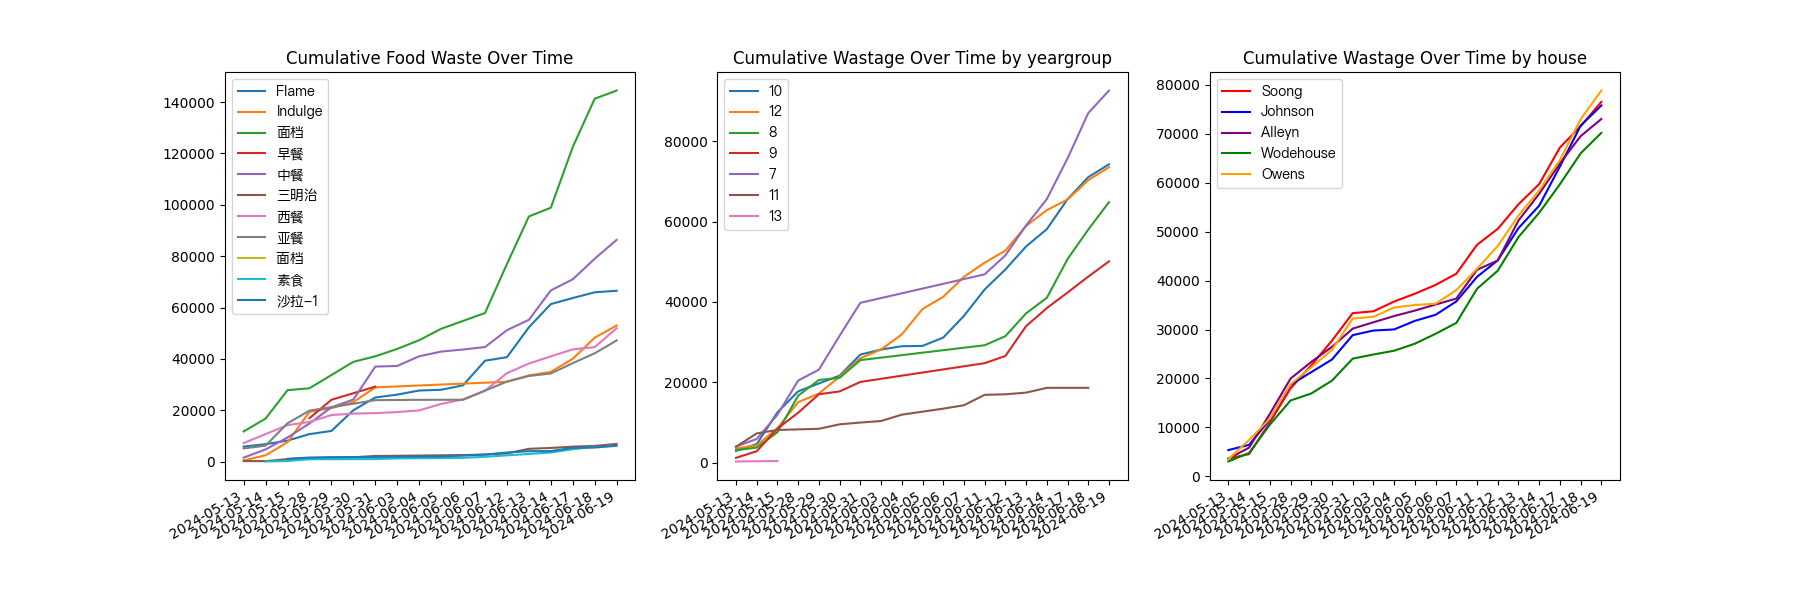
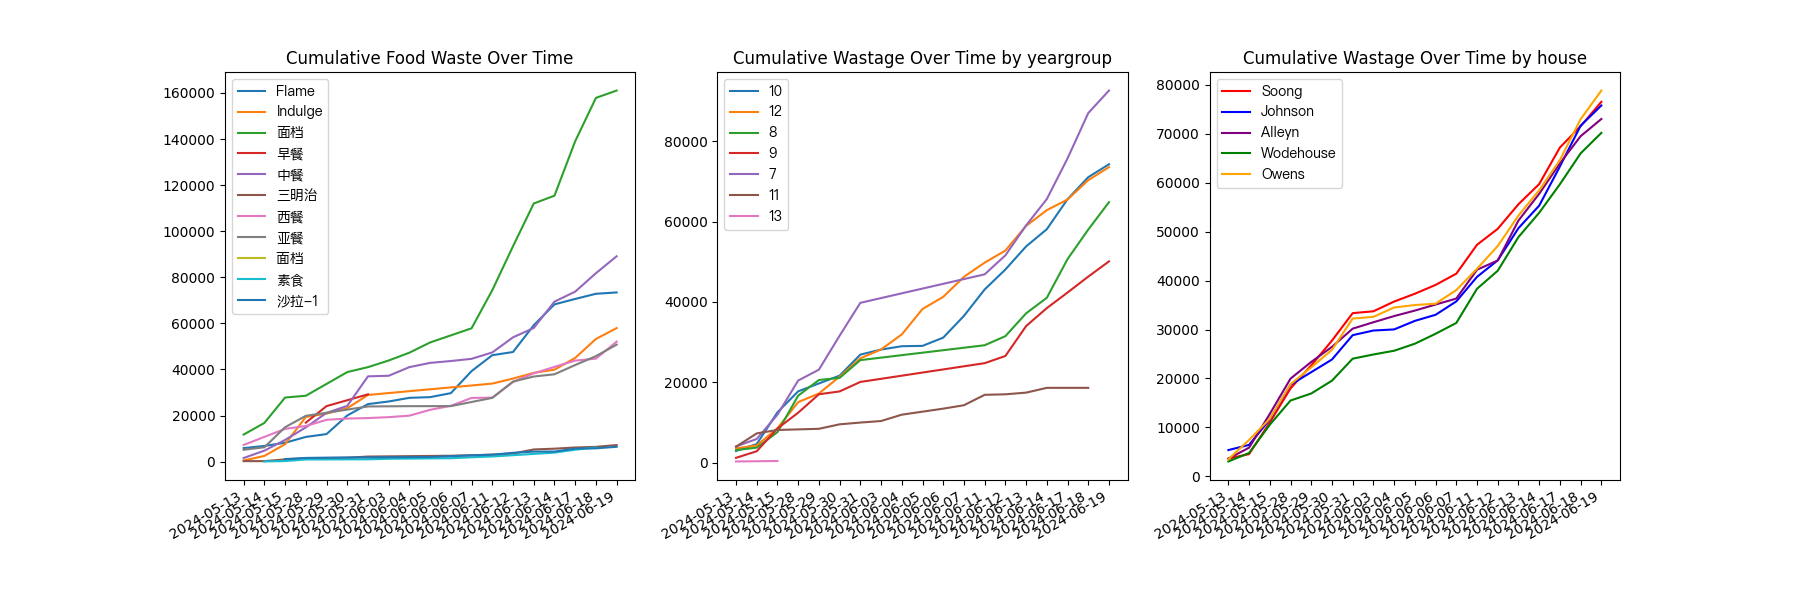
june 11 data added

diff --git a/main.py b/main.py
@@ -515,10 +515,10 @@ def rank_counters(average_wastage, total_wastage, counter_days):
     for counter, days in counter_days_ranked:
         print(f"{counter}: {days} buys")
 
-def main(startDate, endDate, continuous, filename):
+def main(startDate, endDate):
     #current_date = getDate()
-    #report(startDate, endDate) # Start date, end date
-    load_data()
+    report(startDate, endDate) # Start date, end date
+    #load_data()
 
     categories, both_counter_weights = categorize_data()
     for category, count in categories.items():
@@ -536,17 +536,17 @@ def main(startDate, endDate, continuous, filename):
     rank_counters(average_wastage, total_wastage, counter_tally)
 
     calculate_daily_average_wastage() 
-
+    plot(startDate, endDate, True, "continous")
+    plot(startDate, endDate, False, "discrete")
+def plot(startDate, endDate, continuous, filename):
     # Create a 1x3 grid of subplots. The returned object is a Figure instance (f) and an array of Axes objects (ax1, ax2, ax3)
     f, (ax1, ax2, ax3) = plt.subplots(1, 3, figsize=(18, 6))
 
     # Pass the appropriate Axes object to each plotting function
     #cumulative_plot_buys(ax1) # Plots cumulative purchases
     
-    #cumulative_spec_plot_weights(ax1, 'formclass') # Plots cumulative wastage by formclass
     cumulative_plot_waste(ax1) # Plots cumulative wastage
 
-    #cumulative_spec_plot_weights(ax2, 'yeargroup')
     cumulative_spec_plot_weights(ax2, 'yeargroup', startDate, endDate, continuous)
 
     #cumulative_spec_plot_weights(ax3, 'house') # Plots cumulative wastage by house
@@ -568,6 +568,6 @@ def main(startDate, endDate, continuous, filename):
 if __name__ == "__main__":
     
 
-    main("2024-05-13", "2024-06-19", False, "discrete")
+    main("2024-05-13", "2024-06-19")
     #getWeightsbyDate(datetime.strptime("2024-05-13", '%Y-%m-%d'), datetime.strptime("2024-05-15", '%Y-%m-%d'))
     #print(weight_data)
